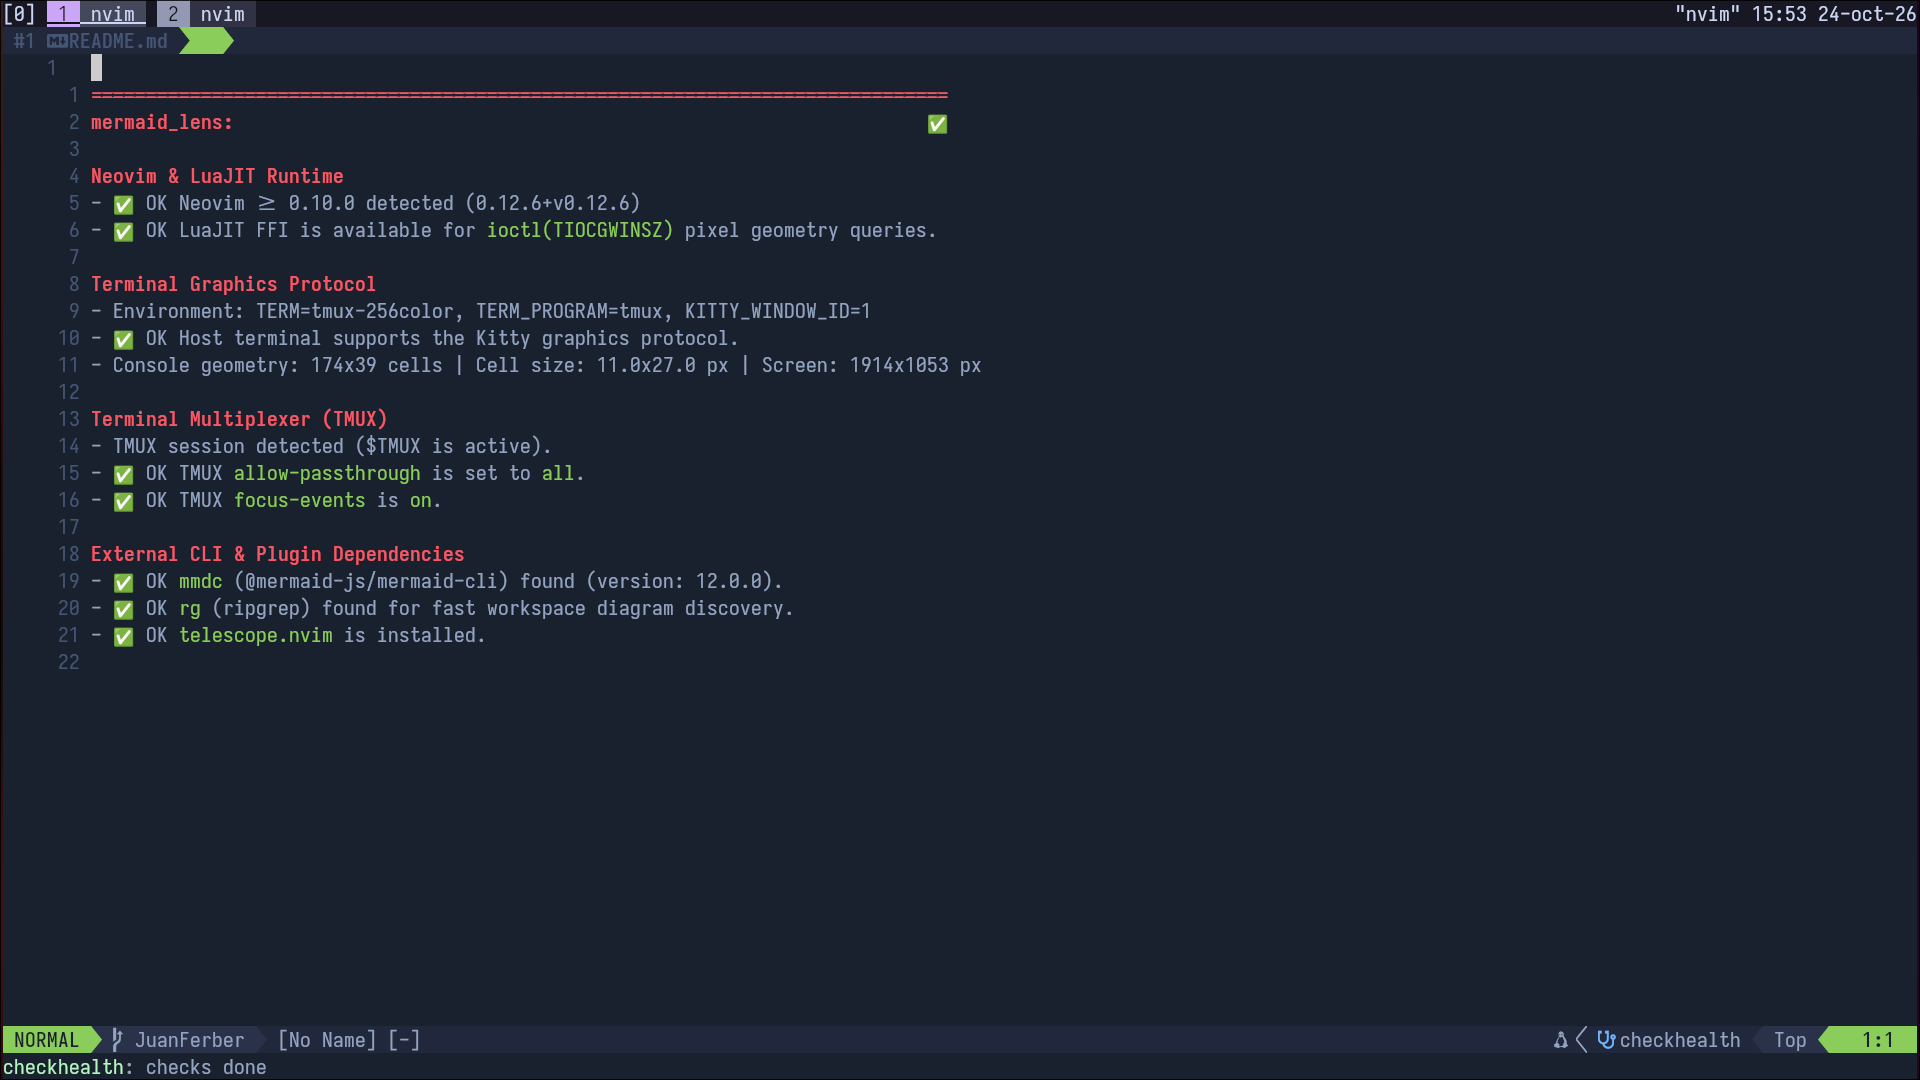
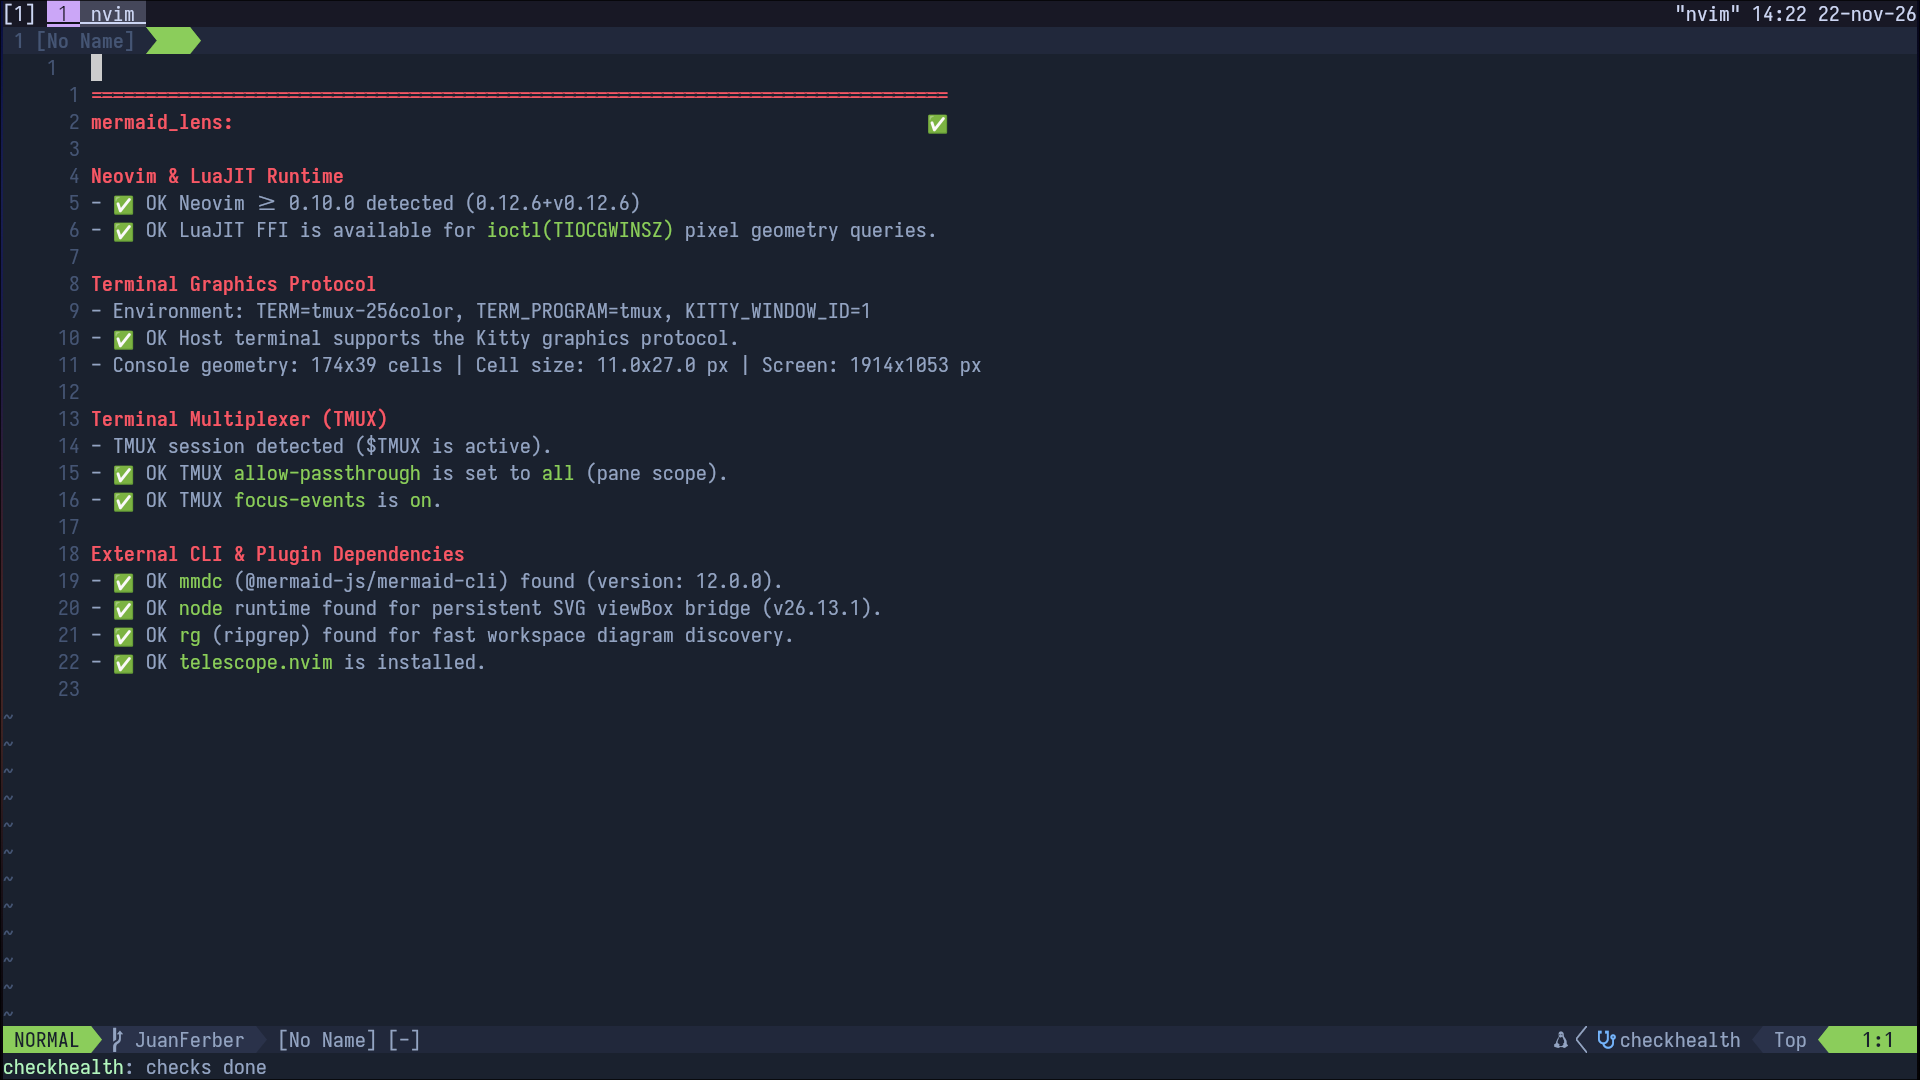
docs(readme): add release badge and checkhealth
- Add GitHub Release badge to `README.md` header
- Align TMUX persistence section in `README.md` with pane-scoped
  `tmux set -p allow-passthrough all` behavior
- Update `assets/checkhealth.png` showing pane-scoped TMUX
  passthrough and persistent `node` bridge checks

diff --git a/README.md b/README.md
@@ -4,6 +4,7 @@
 ![LuaJIT](https://img.shields.io/badge/LuaJIT-FFI-2C2D72?logo=lua&logoColor=white)
 ![Protocol](https://img.shields.io/badge/Graphics-Kitty%20Protocol-7aa2f7)
 [![Tests](https://github.com/JuanFerber/mermaid-lens.nvim/actions/workflows/ci.yml/badge.svg)](https://github.com/JuanFerber/mermaid-lens.nvim/actions/workflows/ci.yml)
+[![Release](https://img.shields.io/github/v/release/JuanFerber/mermaid-lens.nvim)](https://github.com/JuanFerber/mermaid-lens.nvim/releases/latest)
 ![License](https://img.shields.io/badge/License-MIT-blue)
 
 Interactive Mermaid diagram viewer, live modal editor, and workspace finder for Neovim powered by the **Kitty Graphics Protocol**, featuring hardware-accelerated pan & zoom, mouse drag, automatic multi-palette coloring, inline syntax diagnostics, and Telescope integration.
@@ -268,10 +269,10 @@ All settings are optional. Click below to view the full configuration schema and
 
 ### TMUX Persistence (Optional)
 
-If you run Neovim inside `tmux` with `tmux_auto_configure = true` (default), `mermaid-lens.nvim` enables pane-scoped `allow-passthrough on` for the active pane and `focus-events on` automatically at runtime. To persist these settings across `tmux` server restarts (or when setting `tmux_auto_configure = false`), add to `~/.tmux.conf`:
+If you run Neovim inside `tmux` with `tmux_auto_configure = true` (default), `mermaid-lens.nvim` enables pane-scoped `allow-passthrough all` (`tmux set -p`) strictly for the active Neovim pane and `focus-events on` automatically at runtime. To persist these settings across `tmux` server restarts (or when setting `tmux_auto_configure = false`), add to `~/.tmux.conf`:
 
 ```tmux
-set -g allow-passthrough on
+set -g allow-passthrough all
 set -g focus-events on
 set -g mouse on
 ```
